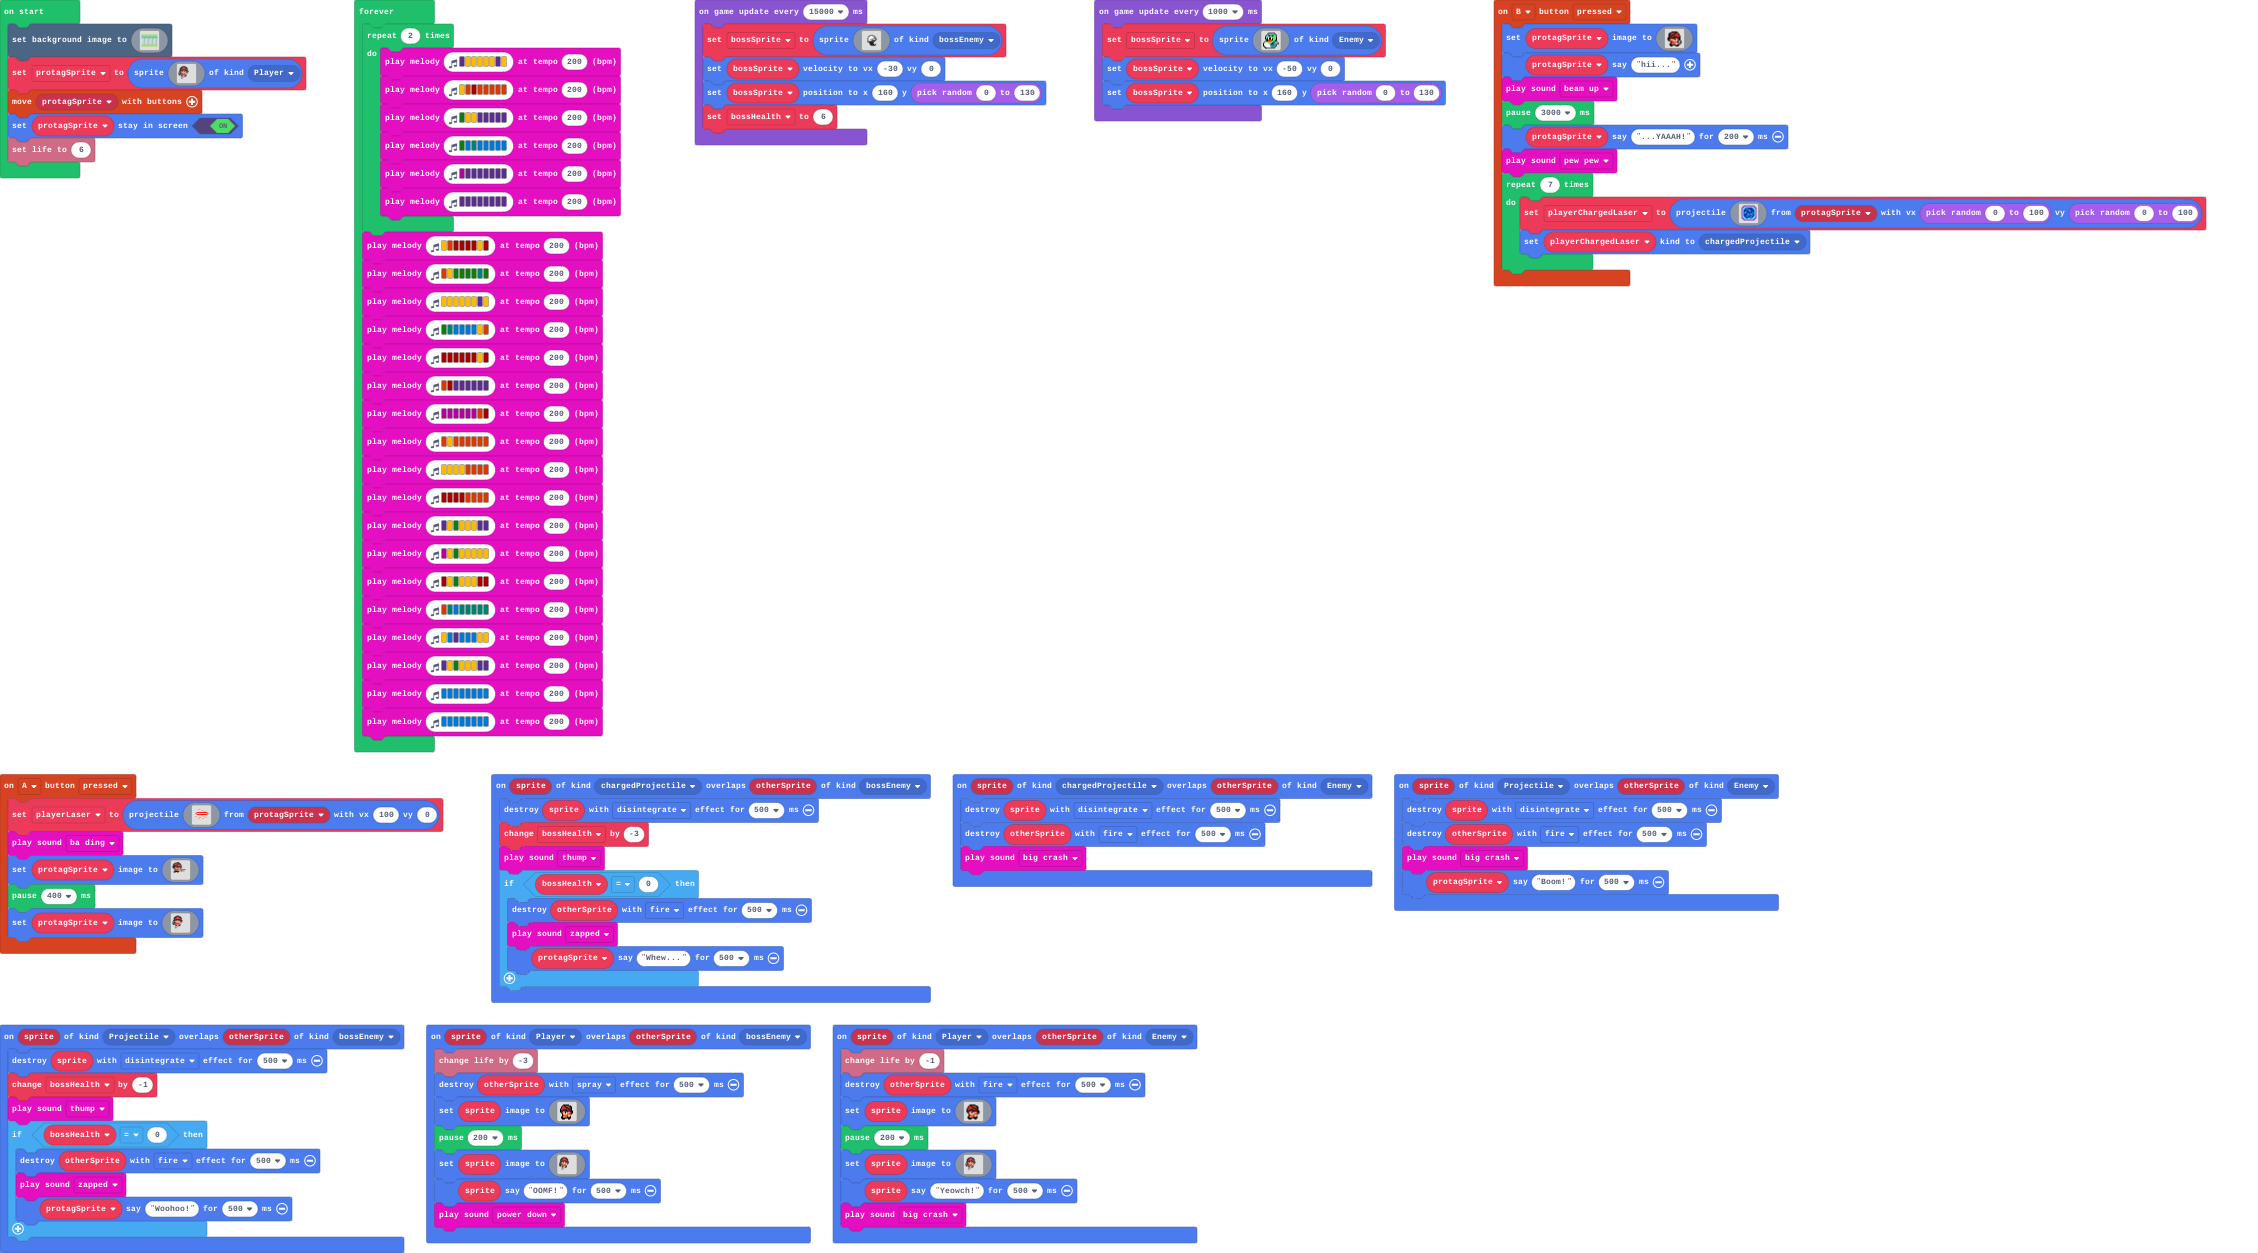
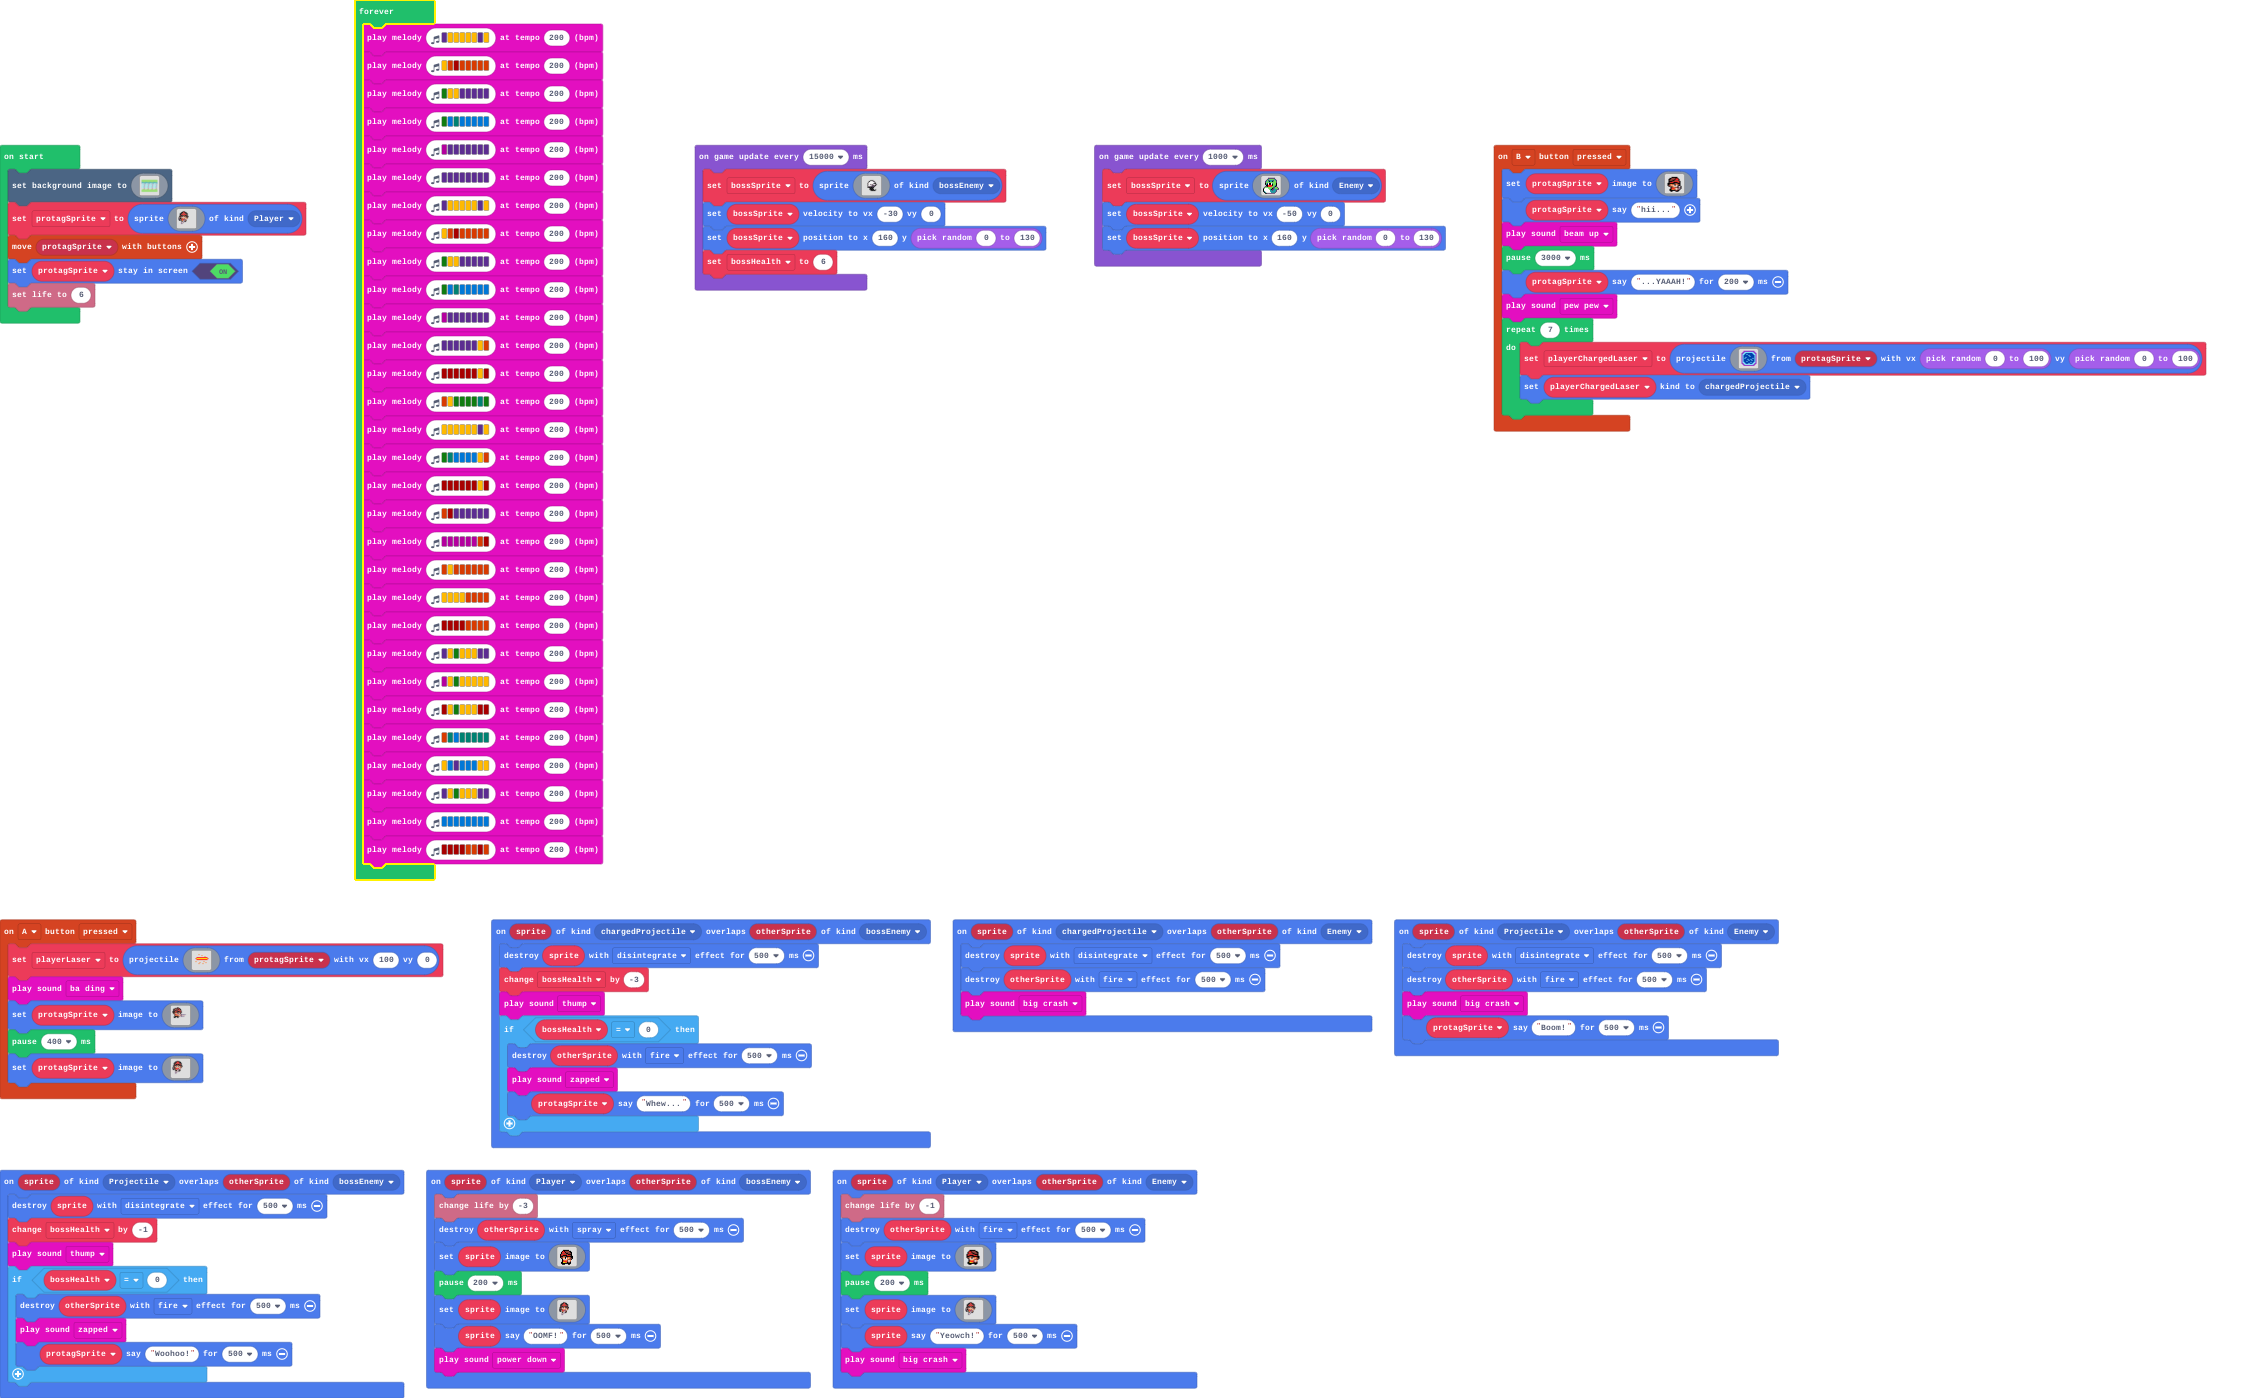
Update main.blocks, main.ts

Changed region(s): [[0.0, 0.0, 0.806, 0.996], [0.31, 0.0, 0.992, 0.3113]]

diff --git a/main.ts b/main.ts
@@ -465,15 +465,19 @@ game.onUpdateInterval(1000, function () {
     bossSprite.setPosition(160, randint(0, 130))
 })
 forever(function () {
-    for (let index = 0; index < 2; index++) {
-        music.playMelody("D A A A A A D A ", 200)
-        music.playMelody("A B C5 B B B B B ", 200)
-        music.playMelody("G A A D D D D D ", 200)
-        music.playMelody("G E F E E E E E ", 200)
-        music.playMelody("C D D D D D D D ", 200)
-        music.playMelody("D D D D D D D D ", 200)
-    }
-    music.playMelody("A B C5 C5 C5 C5 A C5 ", 200)
+    music.playMelody("D A A A A A D A ", 200)
+    music.playMelody("A B C5 B B B B B ", 200)
+    music.playMelody("G A A D D D D D ", 200)
+    music.playMelody("G E F E E E E E ", 200)
+    music.playMelody("C D D D D D D D ", 200)
+    music.playMelody("D D D D D D D D ", 200)
+    music.playMelody("D A A A A A D A ", 200)
+    music.playMelody("A B C5 B B B B B ", 200)
+    music.playMelody("G A A D D D D D ", 200)
+    music.playMelody("G E F E E E E E ", 200)
+    music.playMelody("C D D D D D D D ", 200)
+    music.playMelody("D D D D D D A B ", 200)
+    music.playMelody("C5 C5 C5 C5 C5 C5 A C5 ", 200)
     music.playMelody("B A G G G G F G ", 200)
     music.playMelody("A A A A A A D A ", 200)
     music.playMelody("G F E E E E A B ", 200)
@@ -490,5 +494,5 @@ forever(function () {
     music.playMelody("A E D E E E A A ", 200)
     music.playMelody("D A G A A A D D ", 200)
     music.playMelody("E E E E E E E E ", 200)
-    music.playMelody("E E E E E E E E ", 200)
+    music.playMelody("C5 C5 C5 C5 B B C5 B ", 200)
 })
